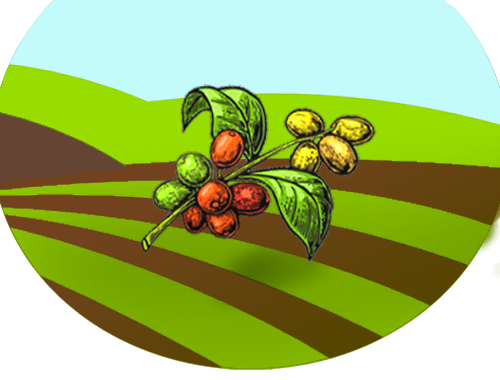
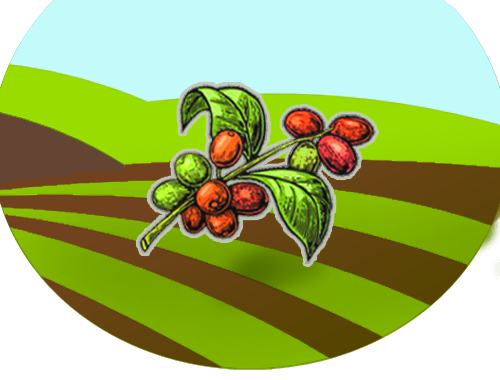
increase Fecudnity cost; decrese Rototilling Draw; update Coffee art

Changed region(s): [[0.27, 0.2026, 0.78, 0.7237]]

diff --git a/src/main/java/thesimpleton/cards/power/Fecundity.java b/src/main/java/thesimpleton/cards/power/Fecundity.java
@@ -24,8 +24,8 @@ public class Fecundity extends CustomCard {
   private static final CardRarity RARITY = CardRarity.RARE;
   private static final CardTarget TARGET = CardTarget.SELF;
 
-  private static final int COST = 2;
-  private static final int UPGRADED_COST = 1;
+  private static final int COST = 3;
+  private static final int UPGRADED_COST = 2;
   private static final int AMOUNT = 1;
 
   public Fecundity() {

diff --git a/src/main/java/thesimpleton/cards/skill/Rototilling.java b/src/main/java/thesimpleton/cards/skill/Rototilling.java
@@ -25,7 +25,7 @@ public class Rototilling extends CustomCard {
   private static final CardTarget TARGET = CardTarget.SELF;
 
   private static final int COST = 1;
-  private static final int DRAW_AMOUNT = 3;
+  private static final int DRAW_AMOUNT = 2;
   private static final int DRAW_UPGRADE_AMOUNT = 1;
   private static final int EXHAUST_AMOUNT = 1;
 
